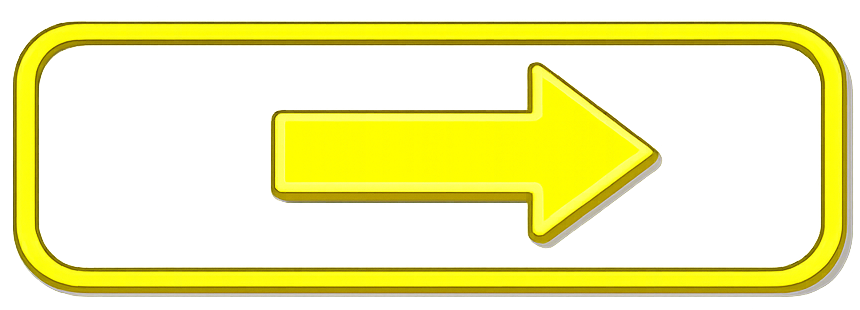
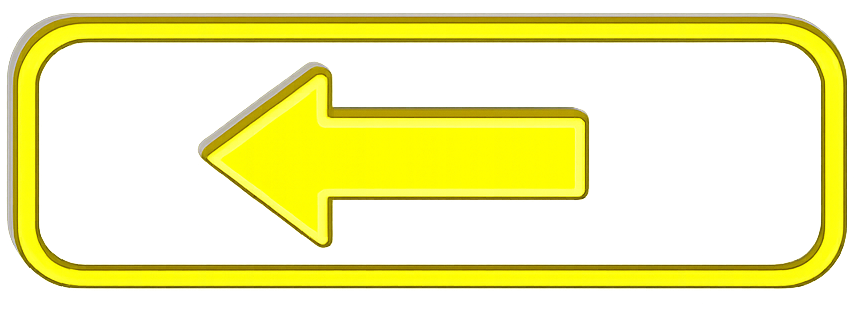
add handl parking car

Changed region(s): [[0.0, 0.029, 0.9977, 0.9581], [0.2116, 0.2032, 0.786, 0.8129]]

diff --git a/src/utility/utilsFiles/ParkingRules.cpp b/src/utility/utilsFiles/ParkingRules.cpp
@@ -1,0 +1,52 @@
+#include "ParkingRules.h"
+
+
+namespace parkingRules
+{
+  static sf::Angle myAbs(sf::Angle angle)
+  {
+    if (angle < sf::Angle::Zero)
+    {
+      return -angle;
+    }
+
+    return angle;
+  }
+    
+  static bool anglesAligned(sf::Angle carAngle, sf::Angle targetAngle)
+  {
+    const auto subtractAngle = (carAngle - targetAngle).wrapSigned();
+    return myAbs(subtractAngle) < parkingRules::ANGLE_OFFSET;
+  }
+
+  static sf::Vector2f getCenter(const std::array<sf::Vector2f, 4>& rectanglePoints)
+  {
+    sf::Vector2f temp{};
+
+    for (const auto& point : rectanglePoints)
+    {
+      temp += point;
+    }
+
+    return temp/4.f;
+  }
+
+  bool closeEnough(const sf::Vector2f& centerL,const sf::Vector2f& centerR)
+  {
+    sf::Vector2f vec = centerR - centerL;
+
+    // Compare squared distance to avoid sqrt; equivalent to length <= DISTANCE_OFFSET.
+    return vec.lengthSquared() <= parkingRules::DISTANCE_OFFSET* parkingRules::DISTANCE_OFFSET; 
+  }
+}
+
+bool parkingRules::isParked(const GameObject& car, const GameObject& target)
+{
+  if (!anglesAligned(car.getAngle(), target.getAngle()))
+    return false;
+
+  if (!closeEnough(getCenter(car.getCorners()), getCenter(target.getCorners())))
+    return false;
+
+  return true;
+}

diff --git a/src/core/LevelManager.cpp b/src/core/LevelManager.cpp
@@ -3,7 +3,7 @@
 #include <utility>
 
 #include "Collision.h"
-
+#include "ParkingRules.h"
 
 
 #include <iostream>
@@ -12,6 +12,7 @@
 LevelManager::LevelManager(sf::RenderWindow& window, LevelData levelData) :
 	m_window(window),
 	m_car(std::move(levelData.m_car)),
+	m_target(std::move(levelData.m_target)),
 	m_blocksObj(std::move(levelData.m_blocksObj)),
 	m_decalsObj(std::move(levelData.m_decalsObj))
 {
@@ -48,6 +49,7 @@ void LevelManager::update(sf::Time time)
 	m_car->update(time);
 
 	checkConflict();
+	checkParking();
 }
 
 void LevelManager::checkConflict()
@@ -57,6 +59,14 @@ void LevelManager::checkConflict()
 		if (collision::overlaps(m_car->getCorners(), obj->getCorners()))
 			std::cout << "got you son of a bitch" << std::endl;
 	}
+}
+
+void LevelManager::checkParking()
+{
+	if (m_car->isStand() && parkingRules::isParked(*m_car, *m_target))
+		std::cout << "his parking mader facker" << std::endl;
+
+
 }
 
 void LevelManager::draw()
@@ -93,11 +103,14 @@ void LevelManager::draw()
 		m_window.draw(*obj);
 	}
 
+	// draw the parking spot
+	m_window.draw(*m_target);
+
 	// draw car
 	m_window.draw(*m_car);
 }
 
-void LevelManager::handle(sf::Event::Closed& closed)
+void LevelManager::handle(sf::Event::Closed& /*closed*/)
 {
 	m_window.close();
 }

diff --git a/src/data/loader/Loader.cpp b/src/data/loader/Loader.cpp
@@ -27,16 +27,29 @@ LevelDescriptor Loader::getData(const std::string& path)const
 
     levelDes.m_nameLevel = path;
 
+    //========= LOAD CAR ==========
     const auto carDes = jFile.at("car");
-    Objects typeObj = objectUtils::getObjectConversionByStr(carDes.at("type").get<std::string>());
+    Objects typeCarObj = objectUtils::getObjectConversionByStr(carDes.at("type").get<std::string>());
 
     levelDes.m_car = { 
-      typeObj,
+      typeCarObj,
       carDes.at("x").get<float>(),
       carDes.at("y").get<float>(),
       carDes.value("rotation", 0.0f) 
     };
     
+    //========= LOAD TARGET(PARKING SPOT) ==========
+    const auto targetDes = jFile.at("target");
+    Objects typeTargetObj = objectUtils::getObjectConversionByStr(targetDes.at("type").get<std::string>());
+
+    levelDes.m_target = {
+      typeTargetObj,
+      targetDes.at("x").get<float>(),
+      targetDes.at("y").get<float>(),
+      targetDes.value("rotation", 0.0f)
+    };
+  
+    //========= LOAD OTHER OBJECTS ==========
     for (const auto& obj : jFile.at("objects"))
     {
       Objects typeObj = objectUtils::getObjectConversionByStr(obj.at("type").get<std::string>());

diff --git a/src/data/LevelBuilder.cpp b/src/data/LevelBuilder.cpp
@@ -17,7 +17,10 @@ LevelData LevelBuilder::buildLevel(const std::string& path) const
   LevelData levelData;
   
   //============= BUILD CAR ===================
-  levelData.m_car = factory::create(LevelDes.m_car);
+  levelData.m_car = castFromGameObject(factory::create(LevelDes.m_car));
+
+  //============= BUILD TARGET ===================
+  levelData.m_target = factory::create(LevelDes.m_target);
 
   //============= BUILD OBJECTS ===================
   for (auto& objDes : LevelDes.m_objects)
@@ -32,4 +35,18 @@ LevelData LevelBuilder::buildLevel(const std::string& path) const
   
 
   return levelData;
+}
+
+std::unique_ptr<Car> LevelBuilder::castFromGameObject(std::unique_ptr<GameObject> obj) const
+{
+  Car* carPtr = dynamic_cast<Car*>(obj.get());
+
+  if (carPtr)
+  {
+    return std::unique_ptr<Car>(static_cast<Car*>(obj.release()));
+  }
+  else
+  {
+    throw std::runtime_error("LevelBuilder error: Player car is not of type Car!");
+  }
 }

diff --git a/include/core/LevelManager.h b/include/core/LevelManager.h
@@ -18,6 +18,7 @@ public:
 private:
   void update(sf::Time time);
   void checkConflict();
+  void checkParking();
   void draw();
 
 
@@ -28,7 +29,8 @@ private:
 
 
   sf::RenderWindow&                        m_window;
-  std::unique_ptr<GameObject>              m_car       = std::unique_ptr<GameObject>();
-  std::vector<std::unique_ptr<GameObject>> m_blocksObj = std::vector<std::unique_ptr<GameObject>>();
-  std::vector<std::unique_ptr<GameObject>> m_decalsObj = std::vector<std::unique_ptr<GameObject>>();
+  std::unique_ptr<Car>                     m_car          = std::unique_ptr<Car>();
+  std::unique_ptr<GameObject>              m_target       = std::unique_ptr<GameObject>();
+  std::vector<std::unique_ptr<GameObject>> m_blocksObj    = std::vector<std::unique_ptr<GameObject>>();
+  std::vector<std::unique_ptr<GameObject>> m_decalsObj    = std::vector<std::unique_ptr<GameObject>>();
 };

diff --git a/include/utility/utilsFiles/ParkingRules.h b/include/utility/utilsFiles/ParkingRules.h
@@ -1,0 +1,20 @@
+#pragma once
+
+#include <SFML/System/Angle.hpp>
+
+#include "GameObject.h"
+
+namespace parkingRules
+{
+  // Car counts as "on" the spot if its center is within this distance
+  // (in pixels) of the target center.
+  // Compared squared (dx*dx + dy*dy < DISTANCE_OFFSET*DISTANCE_OFFSET) to skip sqrt.
+  constexpr float DISTANCE_OFFSET = 30.f;
+
+
+  // Car counts as "aligned" if the angle difference from the target
+  // is smaller than this threshold.
+  const sf::Angle ANGLE_OFFSET = sf::degrees(10.f);
+
+  bool isParked(const GameObject& car, const GameObject& target);
+}

diff --git a/include/objects/Car.h b/include/objects/Car.h
@@ -15,11 +15,14 @@ public:
                   std::unique_ptr<ControlStrategy> control);
 
     
+  void update(sf::Time time);  
   void draw(sf::RenderTarget& window, sf::RenderStates state)const override;
 
-  void update(sf::Time time);  
-  sf::FloatRect getGlobalBounds() const;
+  sf::FloatRect getGlobalBounds() const override;
   std::array<sf::Vector2f, 4> getCorners() const override;
+  sf::Angle getAngle()const override;
+
+  bool isStand()const;
 
 private:
   void drive(float time);

diff --git a/include/utility/structs/LevelData.h b/include/utility/structs/LevelData.h
@@ -8,7 +8,8 @@
 
 struct LevelData
 {
+  std::unique_ptr<Car> m_car = std::unique_ptr<Car>();
+  std::unique_ptr<GameObject> m_target = std::unique_ptr<GameObject>();
   std::vector<std::unique_ptr<GameObject>> m_blocksObj = std::vector<std::unique_ptr<GameObject>>();
   std::vector<std::unique_ptr<GameObject>> m_decalsObj = std::vector<std::unique_ptr<GameObject>>();
-  std::unique_ptr<GameObject> m_car = std::unique_ptr<GameObject>();
 };

diff --git a/src/objects/StaticObject.cpp b/src/objects/StaticObject.cpp
@@ -166,6 +166,11 @@ std::array<sf::Vector2f, 4> StaticObject::getCorners() const
     return collision::getGlobalePoints(m_sprite.getLocalBounds(),m_sprite.getTransform());
 }
 
+sf::Angle StaticObject::getAngle() const
+{
+    return m_sprite.getRotation();
+}
+
 void StaticObject::draw(sf::RenderTarget& target, sf::RenderStates state) const
 {
   target.draw(m_sprite, state);

diff --git a/src/objects/Car.cpp b/src/objects/Car.cpp
@@ -103,6 +103,16 @@ std::array<sf::Vector2f, 4> Car::getCorners() const
   return collision::getGlobalePoints(m_sprite.getLocalBounds(),combined);
 }
 
+sf::Angle Car::getAngle() const
+{
+    return sf::degrees(m_heading);
+}
+
+bool Car::isStand() const
+{
+    return !m_speed;
+}
+
 void Car::drive(float time)
 {
   if (!m_speed)

diff --git a/include/objects/StaticObject.h b/include/objects/StaticObject.h
@@ -13,6 +13,8 @@ public:
   sf::FloatRect getGlobalBounds() const override;
 
   std::array<sf::Vector2f, 4> getCorners() const override;
+  sf::Angle getAngle()const override;
+
 
 protected:
   void draw(sf::RenderTarget& target, sf::RenderStates state)const override;

diff --git a/include/objects/GameObject.h b/include/objects/GameObject.h
@@ -13,6 +13,7 @@ public:
   virtual sf::FloatRect getGlobalBounds() const= 0;
 
   virtual std::array<sf::Vector2f, 4> getCorners() const = 0;
+  virtual sf::Angle getAngle()const = 0;
 
   bool isBlocks()const;
 protected:
